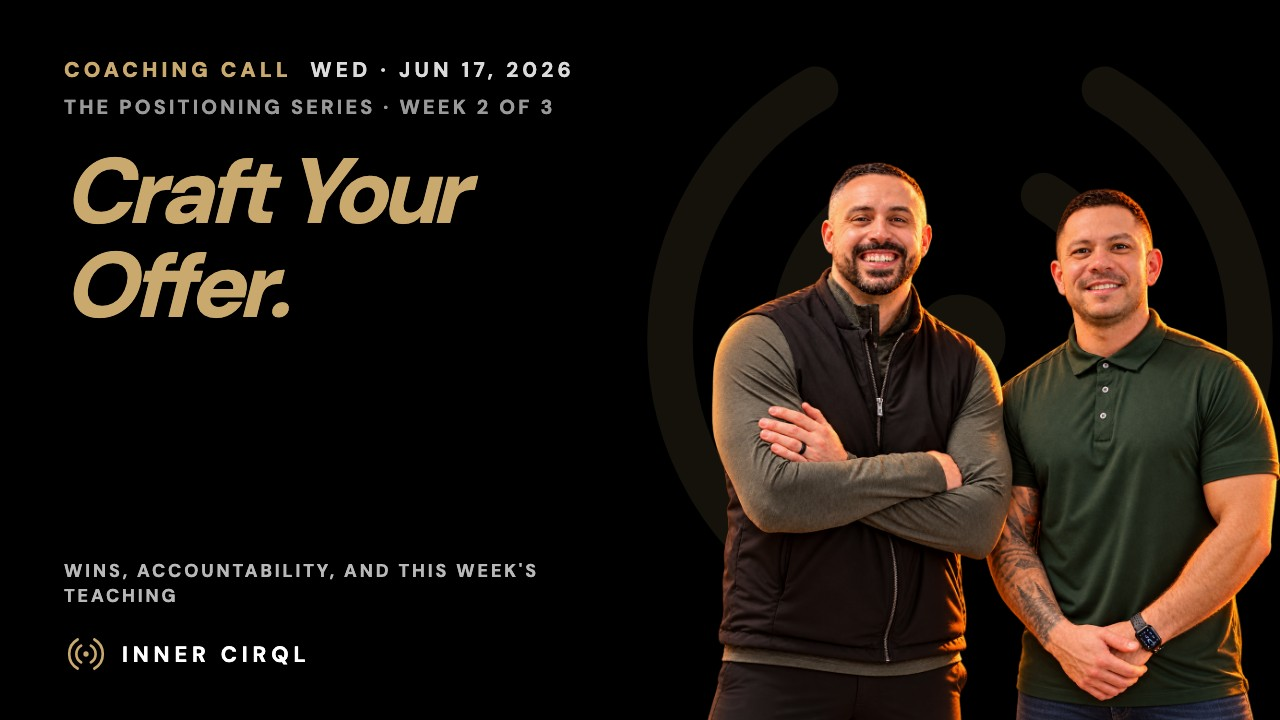
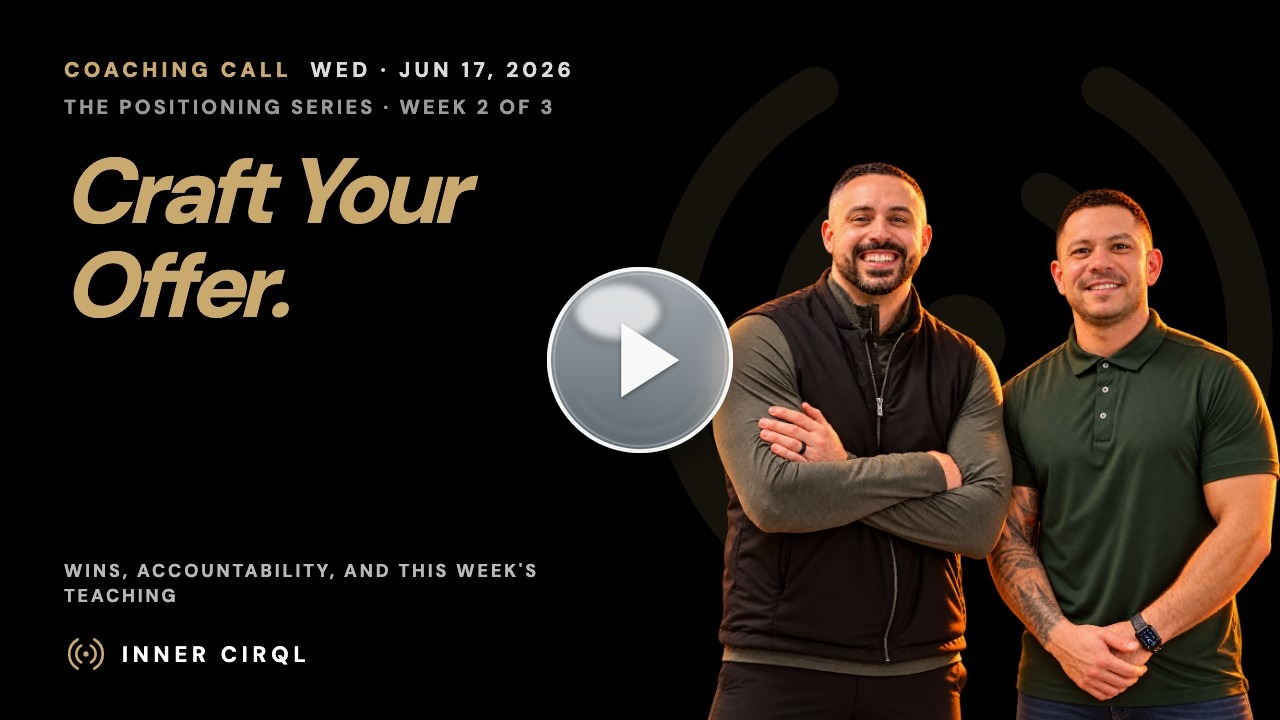
Training: retitle Jun 17 coaching call (The Positioning Series · Week 2 · Offer.) + thumbnail

Changed region(s): [[0.4062, 0.3667, 0.5938, 0.6417]]

diff --git a/training/index.html b/training/index.html
@@ -94,6 +94,26 @@ window.LIBRARY = {
   ],
   "items": [
     {
+      "id": "v-2026-06-17",
+      "date": "2026-06-17",
+      "dateLabel": "June 17, 2026",
+      "series": "positioning",
+      "week": 2,
+      "name": "Offer.",
+      "title": "The Positioning Series · Week 2 · Offer.",
+      "headline": [
+        "Craft Your",
+        "Offer."
+      ],
+      "sub": "The Positioning Series · Week 2 of 3",
+      "desc": "The Positioning Series, Week 2: wrap your Niche in an Offer. Wins, accountability, and the teaching segment, edited replay.",
+      "href": "https://coach.theinnercirql.com/2026-06-17/",
+      "pdf": null,
+      "slides": null,
+      "embed": "https://www.youtube.com/embed/YI0F791uKZE?rel=0&modestbranding=1",
+      "thumb": "/assets/thumbs/jun-17-call.jpg?v=29920122"
+    },
+    {
       "id": "v-2026-06-10",
       "date": "2026-06-10",
       "dateLabel": "June 10, 2026",
@@ -412,26 +432,6 @@ window.LIBRARY = {
       "slides": null,
       "embed": "https://www.youtube.com/embed/JC9sWRmPtWw?rel=0&modestbranding=1",
       "thumb": "/assets/thumbs/jun-24-call.jpg?v=1"
-    },
-    {
-      "id": "v-2026-06-17",
-      "date": "2026-06-17",
-      "dateLabel": "June 17, 2026",
-      "series": "positioning",
-      "week": 2,
-      "name": "Offer.",
-      "title": "The Positioning Series · Week 2 · Offer.",
-      "headline": [
-        "Craft Your",
-        "Offer."
-      ],
-      "sub": "The Positioning Series · Week 2 of 3",
-      "desc": "The Positioning Series, Week 2: wrap your Niche in an Offer. Wins, accountability, and the teaching segment, edited replay.",
-      "href": "https://coach.theinnercirql.com/2026-06-17/",
-      "pdf": null,
-      "slides": null,
-      "embed": "https://www.youtube.com/embed/YI0F791uKZE?rel=0&modestbranding=1",
-      "thumb": "/assets/thumbs/jun-17-call.jpg?v=1"
     },
     {
       "id": "v-2026-08-05",
